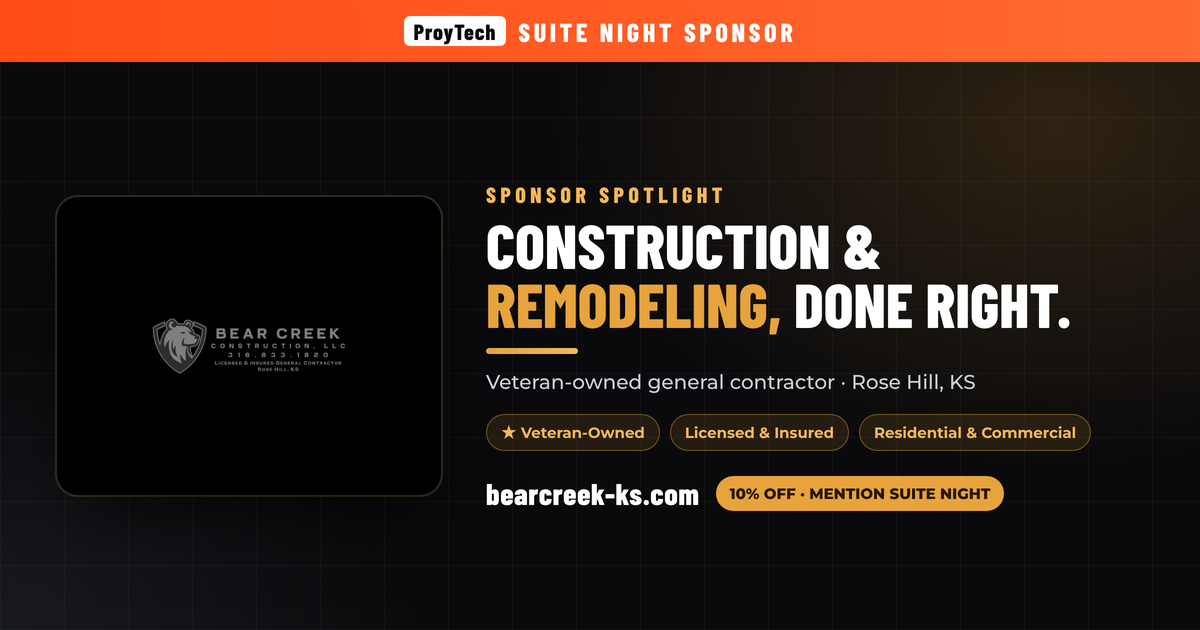
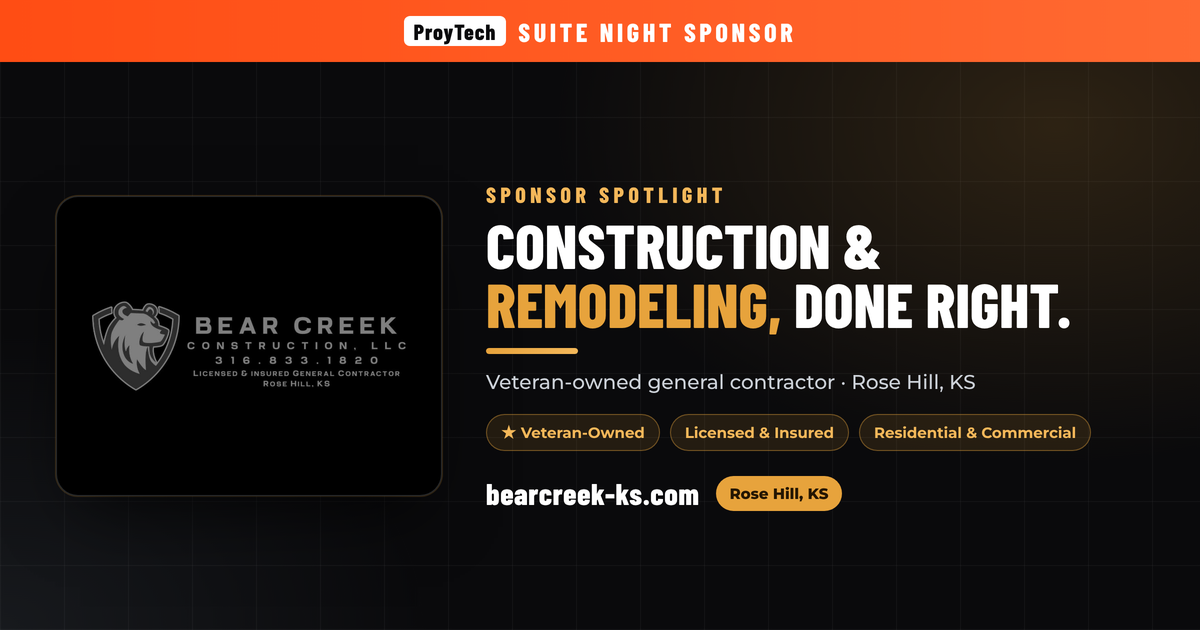
Bear Creek: remove 10% offer, crest fills sponsor tiles
- Remove the "Mention Suite Night for 10% off" offer everywhere (hero stat, featured card, CTA, contact line, OG card, resources blurb) — it was not authorized by the sponsor
- Featured card now reads "Premium Construction, Built to Last"
- Use the squarish bear-shield crest for the Suite Night tiles + resources + favicon so the logo fills the square (full wordmark logo kept on the landing hero and OG card)

Claude-Session: https://claude.ai/code/session_01BnsDtJZwe9kXZ8qg5zqrZg

Changed region(s): [[0.0617, 0.4825, 0.3392, 0.6333], [0.6167, 0.754, 0.8325, 0.8143]]

diff --git a/sponsors/bear-creek-construction.html b/sponsors/bear-creek-construction.html
@@ -4,7 +4,7 @@
 <meta charset="UTF-8"/>
 <meta name="viewport" content="width=device-width, initial-scale=1.0"/>
 <title>Bear Creek Construction, LLC | Veteran-Owned General Contractor | Suite Night Sponsor</title>
-<meta name="description" content="Bear Creek Construction, LLC — veteran owned & operated general contractor in Rose Hill, KS. Premium construction built to last: framing, remodeling, concrete, decks, fencing, and roofing, residential & commercial. Licensed & insured. Proud ProyTech Suite Night sponsor. Mention Suite Night for 10% off."/>
+<meta name="description" content="Bear Creek Construction, LLC — veteran owned & operated general contractor in Rose Hill, KS. Premium construction built to last: framing, remodeling, concrete, decks, fencing, and roofing, residential & commercial. Licensed & insured. Proud ProyTech Suite Night sponsor."/>
 <meta property="og:title" content="Suite Night Sponsor: Bear Creek Construction"/>
 <meta property="og:description" content="Meet our ProyTech Suite Night sponsor — Bear Creek Construction, LLC. Veteran-owned general contractor in Rose Hill, KS. Premium construction built to last, residential & commercial."/>
 <meta property="og:site_name" content="ProyTech Suite Night"/>
@@ -249,7 +249,7 @@ footer a{color:var(--amber-2);text-decoration:none;font-weight:600}
   <div class="hero-in">
     <div class="wrap">
       <div class="hero-grid">
-        <div class="logo-card reveal"><img src="/images/sponsors/bear-creek-construction.png" alt="Bear Creek Construction, LLC"></div>
+        <div class="logo-card reveal"><img src="/images/sponsors/bear-creek-construction-full.png" alt="Bear Creek Construction, LLC"></div>
         <div>
           <div class="reveal d1"><span class="vet">&#9733; Veteran Owned &amp; Operated</span></div>
           <h1 class="reveal d1">Premium construction,<br><span class="g">built to last.</span></h1>
@@ -274,7 +274,7 @@ footer a{color:var(--amber-2);text-decoration:none;font-weight:600}
     <div class="stat reveal"><b>&#9733; Veteran</b><span>Owned &amp; Operated</span></div>
     <div class="stat reveal d1"><b>100%</b><span>Licensed &amp; Insured</span></div>
     <div class="stat reveal d2"><b>Res + Com</b><span>Construction &amp; Remodel</span></div>
-    <div class="stat reveal d3"><b>10% Off</b><span>Mention Suite Night</span></div>
+    <div class="stat reveal d3"><b>Built to Last</b><span>Premium Construction</span></div>
   </div>
 </section>
 
@@ -298,9 +298,9 @@ footer a{color:var(--amber-2);text-decoration:none;font-weight:600}
       </div>
     </div>
     <div class="feat-card reveal d2">
-      <div class="big">10%</div>
-      <div class="off">Off your project</div>
-      <p class="q">Mention <b>Suite Night</b> when you reach out and Bear Creek will take 10% off your project.</p>
+      <div class="ic" style="width:92px;height:92px;margin:0 auto 20px;border-radius:50%;display:grid;place-items:center;background:radial-gradient(circle at 50% 35%,rgba(231,163,60,.28),rgba(141,162,181,.08));border:1px solid rgba(231,163,60,.4)"><svg width="44" height="44" viewBox="0 0 24 24" fill="none" stroke="#F4B85A" stroke-width="1.5"><path d="M12 2l8 3v6c0 5-3.5 8-8 9-4.5-1-8-4-8-9V5z"/><path d="M9 12l2 2 4-4"/></svg></div>
+      <div class="off">Premium Construction, Built to Last</div>
+      <p class="q">Licensed and insured. Residential and commercial. One accountable general contractor, from the first call to the final walkthrough.</p>
       <div class="semper">&#9733; Veteran-Owned General Contractor</div>
     </div>
   </div>
@@ -439,7 +439,7 @@ footer a{color:var(--amber-2);text-decoration:none;font-weight:600}
 <section class="band">
   <span class="ripple"></span><span class="ripple r2"></span>
   <h2 class="reveal">Let's build it right</h2>
-  <p class="reveal d1">Reach out for a quote on your next build, remodel, or addition. Mention Suite Night for 10% off.</p>
+  <p class="reveal d1">Reach out for a quote on your next build, remodel, or addition, residential or commercial.</p>
   <a class="btn btn-white btn-xl reveal d2" href="https://www.bearcreek-ks.com" target="_blank" rel="noopener">Go to bearcreek-ks.com &rarr;</a>
 </section>
 
@@ -455,7 +455,7 @@ footer a{color:var(--amber-2);text-decoration:none;font-weight:600}
     <a class="cc reveal d2" href="mailto:andy@bckansas.com"><div class="k">Email</div><div class="v">andy@bckansas.com</div></a>
     <a class="cc reveal d3" href="https://www.facebook.com/profile.php?id=61583699164237" target="_blank" rel="noopener"><div class="k">Facebook</div><div class="v">Bear Creek Construction</div></a>
   </div>
-  <p class="hours">Veteran owned &amp; operated &middot; Mention Suite Night for 10% off your project</p>
+  <p class="hours">Veteran owned &amp; operated &middot; Licensed &amp; insured general contractor &middot; Rose Hill, KS</p>
 </section>
 
 <footer>
